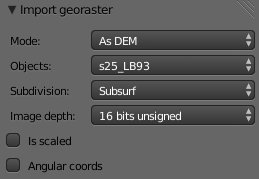
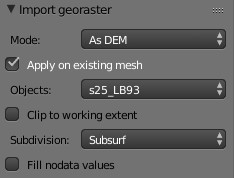
update wiki

diff --git a/Import-DEM-grid.md b/Import-DEM-grid.md
@@ -13,56 +13,82 @@ Unsigned 32 bit       |   0 to 4294967295
 Signed 32 bit         |   -2147483648 to 2147483647
 Floating-point 32 bit |   -3.402823466e+38 to 3.402823466e+38
 
-The best way to use this kind of data for warp a mesh in Blender is by setting a Displace modifier.This modifier displaces vertices in a mesh based on the intensity of a texture.
+For dealing with this kind of data in Blender, the addon will use them as **displacement texture**.
 
-For the moment, the script can only process 8 or 16 bit raster because it seems the displacer cannot correctly deal with 32 bits integer or floating DEM.
+**Usage**
 
-Before import a DEM you need a mesh to apply the displacer on. Standard workflow is to import beforehand a texture map like topographic map or aerial photo on a plane. This plane will define the working area and will be used as reference for the DEM import.
+You can import directly a DEM as new mesh but you can also just use it to warp a texture map like topographic map or aerial photo previously imported with the *As plane* option.
 
-Then you can launch the DEM import tool. The dimensions of the reference plane and the extent of the DEM dataset don't need to be exactly the same. You can use, without worrying, a DEM smaller or larger than the plane because the script will compute UV mapping according to the georeferencing data so in all cases overlay will be correct.
+In this case the previous import will define the working area and will be used as reference for the DEM import. The dimensions of the reference plane and the extent of the DEM dataset don't need to be exactly the same. You can use, without worrying, a DEM larger or that just partially overlap the plane. The script will compute UV mapping according to the georeferencing data so in all cases overlay will be correct.
+
+![](https://raw.githubusercontent.com/wiki/domlysz/blenderGIS/images/georaster_Mode_As_DEM_result.jpg)
+
 
 There are several option available :
 
 ![](https://raw.githubusercontent.com/wiki/domlysz/blenderGIS/images/georaster_Mode_As_DEM.jpeg)
 
-* *Objects* : with this list you can select the mesh that will be used to config the displacer. Usually this is the reference map image previously imported on a plane.
+* *Apply on existing mesh* : check this option if you want using the DEM to warp an existing topographic map or aerial photo previously imported *as plane*.
+
+* *Objects* : when trying to import on an existing plane, use this list to select the object that will be used to apply the DEM on.
+
+* *Clip to working extent* : when trying to import on an existing plane, it's possible to clip the DEM according to the working extent define by the object that will be used to apply the DEM on.
 
 * *Subdivision* : Subdivision is needed because the displacer needs some vertices to work with. The script can subdivise the plane by adding a simple subsurf modifier or by cutting the plane according to the number of DEM pixel which overlay the mesh.
 
-* *Image depth* : you need to specify original DEM bit depth. This information is needed to retrieve pixel elevation values because Blender texture value is normalized from 0.0 to 1.0. You can easily find this  information with QGIS for example.
+* *Fill nodata values* : because nodata are usually represented by a very high or very low value, it will result huge side effect on the importing mesh. Fill nodata option help to avoid this issue and keep smooth results.
 
-* *Is scaled* : check this if the raster is [scaled](https://github.com/domlysz/BlenderGIS/wiki/Scale-DEM-dataset)
-
-    Using scaled DEM requires the user to specify what are original maximum and minimum elevation of the raster dataset because this information is no longer available once the values have been re-distributed.
-
-    ![](https://raw.githubusercontent.com/wiki/domlysz/blenderGIS/images/georaster_Mode_As_DEM_Is_Scaled.jpeg)
+![](https://raw.githubusercontent.com/wiki/domlysz/blenderGIS/images/georaster_fillnodata.jpg)
 
 * *Angular coords* : check this if the raster is in [decimal degrees](https://github.com/domlysz/BlenderGIS/wiki/Working-in-decimal-degrees)
 
-After the import you must see the mesh correctly warped
 
-![](https://raw.githubusercontent.com/wiki/domlysz/blenderGIS/images/georaster_DEM_result.jpeg)
+**Import with GDAL**
 
-In the modifier stack you can check the displace setting
+[GDAL](http://gdal.org/) is a popular and powerful geospatial data processing library. If GDAL is correctly  [installed](https://github.com/domlysz/BlenderGIS/wiki/How-to-install-GDAL), then the addon will automatically use it for import the DEM.
+
+**GDAL is an optional dependency**, all the functionalities of BlenderGIS are available without it. It will be used only if possible and only for georaster import with the *As DEM* option. Importing a DEM with the help of GDAL gives exactly the same result than the standard mode but provides 2 main advantages:
+
+* **Process any GIS raster data format that Blender can't natively read**
+
+  If you need to deal with GIS specific raster format and process it with GDAL, think to disable the filter.
+
+  ![](https://raw.githubusercontent.com/wiki/domlysz/blenderGIS/images/georaster_DEM_GDAL_disable_filter.jpg)
+
+* **Clip large raster data source**
+
+  GDAL is building to be able of processing very large geospatial dataset that standard softwares like Blender cannot open without memory overflow. With the help of GDAL it's possible to just extract a subset of the raster according to the working extent and then import it to Blender.
+
+Also, fill nodata option will be significantly more efficient.
+
+
+**Displacement settings**
+
+In the modifier stack you can check the displace settings
 
 ![](https://raw.githubusercontent.com/wiki/domlysz/blenderGIS/images/georaster_Displacer_Settings.jpeg)
 
-**_If you want to increase the warp effect just edit the scale Z property_**
+If you want to increase the warp effect just edit the scale Z property
 
 The DEM is used as texture for the displacer and to place this texture the mesh as now a new UV map calculates according to the DEM overlay position.
 
 ![](https://raw.githubusercontent.com/wiki/domlysz/blenderGIS/images/georaster_Mesh_UVmap.jpeg)
 
-**Strength calculation:**   
+*Strength calculation:*
+
 The strength value defines the vertex displacement  
 `Displacement = (Texture value - Midlevel) × Strength`  
 Midlevel represents texture value which will be treated as no displacement by the modifier, for convenience it is always set to zero, so  
 `Strength = Displacement / Texture value`  
-Where displacement is the target elevation change (altitude max - altitude min) and texture value is Blender color value which is normalize between 0.0 and 1.0. A Blender texture value of 1.0 equal to the maximum value that can be assigned in the raster dataset, so this value depends on raster bit depth  
+Where displacement is the target elevation change (altitude max - altitude min) and texture value is Blender color value.
+
+With float32 raster the strength value is just equal to 1 because Blender will directly report raw values as color intensity. But with non float raster, Blender will normalize values between 0.0 and 1.0. An intensity value of 1.0 in Blender equal to the maximum value that can be assigned in the raster dataset, so this value depends on raster bit depth  
 `texture value = delta Z / (2^depth-1)`  
 Finally  
 `Strength = delta Z / (delta Z / (2^depth-1))`  
 **`Strength = 2^depth-1`**
+
+Note that signed 16 bits integer raster will always be cast to float to be usable as displacement texture in Blender. Indeed, with this data type positives value are coded from 0 to 32767 and negatives values are coded in reverse order from 65535 to 32768 corresponding to a range from -1 to -32768 so it's just impossible to correctly set a mid value when trying to use it as displacement texture.
 
 The script also sets some important parameters of the displacer texture:
 

diff --git a/How-to-install-GDAL.md b/How-to-install-GDAL.md
@@ -1,30 +1,34 @@
 [GDAL](http://gdal.org/) is a popular and powerful geospatial data processing library. GDAL is available as a set of commandline utilities (ready to use binaries files). The developer oriented library is available as a C/C++ API. Bindings in other languages, including Python, are also available.
 
-Actually installing binary files is good enought to get the addon working as well. You can also use GDAL Python API but in this case you need to install the binding.
+**GDAL is an optional dependency**, all the functionalities of BlenderGIS are available without it. It will be used only if possible and only for georaster import with the *As DEM* option.
+
+### Linux
+
+GDAL binary and Python binding are available par ubuntugis repository
+
+`sudo add-apt-repository ppa:ubuntugis-unstable`
+`sudo apt-get install gdal-bin`
+`sudo apt-get install python3-gdal`
+`sudo apt-get install python3-numpy`
+
+Install Blender from a repository instead of ready to use tarballs from blender.org.
+
+`sudo add-apt-repository ppa:thomas-schiex/blender`
+
+Installing through this way, Blender will use the version of Python existing one the system instead of it's own bundle version.
+
 
 ### Windows
 
-**Binaries (executables)**
+On Windows, the most easiest way to install GDAL Python Binding is to use the packages available [here](http://www.lfd.uci.edu/~gohlke/pythonlibs/#gdal). Note that these distributions also includes GDAL binary files.
 
-Core binary file can be downloaded from [gisinternals.com](http://www.gisinternals.com/sdk/). Scroll down to *release versions* table and click on the relevant link in the *Downloads* column (32 or 64 bit). From the new page download the GDAL core file (*gdal-[version]-[build]-core.msi*).
+You need pip to install *.whl package files. The Python installation bundle with Blender do not include pip but include distutils. So it's possible to run [get-pip.py](https://bootstrap.pypa.io/get-pip.py) to install pip :
 
-Using binary files needs to edit environmental variables like this:
+`blender_install_folder\2.7x\python\bin\python.exe get-pip.py`
 
-![](https://raw.githubusercontent.com/wiki/domlysz/blenderGIS/images/varEnvGDAL.jpg)
+And then install the wheel:
 
-**Python binding**
-
-Installing Python binding from setup file requires that Python exists on your computer. So the first step is to install [Python](https://www.python.org/downloads/). Choose the version that match the one delivered with Blender.
-
-Python binding is available from gisinternals.com, but this package isn't compiled accross Numpy. Without Numpy, the binding will not have all of its functionality and can not be used with the addon.
-
-Fortunately other Python packages can be found [here](http://www.lfd.uci.edu/~gohlke/pythonlibs/#gdal). Note that this distribution also includes GDAL binary files.
-
-GDAL Python binding installer creates a new folder named osgeo in *C:\Python33\Lib\site-packages*. If you already installed binary files you can delete \*.exe and \*.dll files from osgeo folder, they will not be used.
-
-Finally, to get GDAL working in Blender, just copy osgeo folder in Python tree folder of Blender (*C:\Program Files\Blender Foundation\Blender\2.70\python\lib\site-packages*). 
-
-Note that Numpy version uses to compile GDAL binding needs to match the version ship with Blender.
+`blender_install_folder\2.7x\python\bin\python.exe -m pip install GDAL-2.0.2-cp34-none-win_amd64.whl`
 
 To test the install open Blender Python console and type:
 
@@ -32,24 +36,26 @@ To test the install open Blender Python console and type:
 
 `from osgeo import gdalnumeric`
 
-These statements should not return error.
+These statements should not return error. If gdalnumeric import raise an error it's because Numpy version uses to compile GDAL binding needs to match the version ship with Blender. So in this case just update Numpy with the [corresponding package](http://www.lfd.uci.edu/~gohlke/pythonlibs/#numpy)
 
 
 ### Mac Osx
 
 *Tested on Yosemite 10.10 and Blender 2.74*
 
-**1) Install Xcode and Macports from this link :**
+1) Install Xcode and Macports from this link :
  https://www.macports.org/install.php
 
-**2) Install gdal and gdal python bindings**
+2) Install gdal and gdal python bindings
 Open a terminal from spotlight or from Applications => Utilities => Terminal
-Then type with administratives rights : 
-> sudo port install gdal py34-gdal
+Then type with administratives rights :
 
-**3) Copy osgeo folder from python bindings to blender**
-> cp -rf /opt/local/Library/Frameworks/Python.framework/Versions/3.4/lib/python3.4/site-packages/osgeo /**where_you_put_blender_on_your_mac**/Blender/blender.app/Contents/Resources/2.74/scripts/modules/
+`sudo port install gdal py34-gdal`
 
-Replace **where_you_put_blender_on_your_mac** with the path where you run or install Blender
+3) Copy osgeo folder from python bindings to blender
+
+`cp -rf /opt/local/Library/Frameworks/Python.framework/Versions/3.4/lib/python3.4/site-packages/osgeo /**where_you_put_blender_on_your_mac**/Blender/blender.app/Contents/Resources/2.74/scripts/modules/`
+
+Replace *where_you_put_blender_on_your_mac* with the path where you run or install Blender
 
 Test it in Blender Python console like windows installation.

diff --git a/Import-georef-raster.md b/Import-georef-raster.md
@@ -1,10 +1,10 @@
-This tool import common image format associated with a world file that georeference it.
+This tool import common image format associated with a world file that georeference it or **geotiff** file that embed georeferencing informations directly in tiff tags.
 
 **Worldfile**
 
 A world file is a plain text file used to georeference raster map images. It describes the location, scale and rotation of the map.
 
-The world file extension can be *.wld or must be respect one of these conventions: 
+The world file extension can be *.wld or must be respect one of these conventions:
 
 Image extension     |   World file extension
 --------------------|-----------------------------------
@@ -12,8 +12,6 @@ tif                 |   tfw / tfwx / tifw
 jpg                 |   jgw / jgwx / jpgw
 bmp                 |   bpw / bpwx / bmpw
 png                 |   pgw / pgwx / pngw
-
-You can't import a raster without his worldfile.
 
 A worldfile has six-line with decimal numbers on each.
 
@@ -74,4 +72,3 @@ The raster is applied on mesh as a material texture. This material is setting vi
 * If the imported image appeared fully black, try to config. the light according to the scene (for example try the sun light type)
 
 * Because the scene can be very large, don’t forget to configure camera clipping distance according to the scene. If you still see black faces error on render image after setting clip end distance try to set the clip start distance closer to the scene, it will help Blender to improve vertex position according to the Z depth of the camera.
-

diff --git a/Adjust-3D-view.md b/Adjust-3D-view.md
@@ -1,10 +1,6 @@
-All import tools provide an option named *Adjust 3d view*.
+When importing a shapefile or a georaster, BlenderGIS will trying to adjust 3d view according to the imported mesh size. This is especially useful because geographic data can be very large while default 3d view settings are not suitable for such scales.
 
-This option can be used to adjust 3d view according to the imported mesh size. This is especially useful because geographic data can be very large while default 3d view settings are not suitable for such scales.
-	
-*Adjust 3d view* will **adjust 3D view grid floor and clip distances**.
-
-These properties are localized in the 3d view numeric panel.
+This adjustement consists to arrange 3D view grid floor and clip distances. These properties are localized in the 3d view numeric panel.
 
 ![](https://raw.githubusercontent.com/wiki/domlysz/blenderGIS/images/3dView_clip_dist.jpg)
 _

diff --git a/Gereferencing-management.md b/Gereferencing-management.md
@@ -4,8 +4,6 @@ That's why it's necessary to create the mesh near to the scene origin. For avoid
 
 ![](https://raw.githubusercontent.com/wiki/domlysz/blenderGIS/images/custom_props.jpeg)
 
-When you try to import a shapefile or a georaster, if the scene already contains these custom properties, you will have the opportunity to use them to adjust the position of the new imported object.
-
-![](https://raw.githubusercontent.com/wiki/domlysz/blenderGIS/images/custom_props_considere.jpeg)
+When you try to import a shapefile or a georaster, if the scene already contains these custom properties,then blenderGIS will use them to adjust the position of the new imported object.
 
 **The overlay will be correct only if the geographic projection system is the same.** Note that one Blender unit = one map coordinates system unit. So, units depend on your data.

diff --git a/_Sidebar.md b/_Sidebar.md
@@ -8,9 +8,7 @@
 * Raster map image data
     * [[Import georef raster]]
     * [[Import DEM grid]]
-    * [[Import DEM grid using GDAL]]
-    * [[Scale DEM dataset]]
-    * [[Prepare DEM data with QGIS]]
+    * [[QGIS tips]]
     * [[How to install GDAL]]
 * [[Terrain analysis]]
     * [[Materials node setup builder]]

diff --git a/Install-and-usage.md b/Install-and-usage.md
@@ -1,4 +1,4 @@
-**Install and usage**
+*Please don't except a success story if you don't really know what you are trying to import in Blender... Use [QGIS](http://www.qgis.org), to explore your data beforehand*
 
 Download source archive from github.
 
